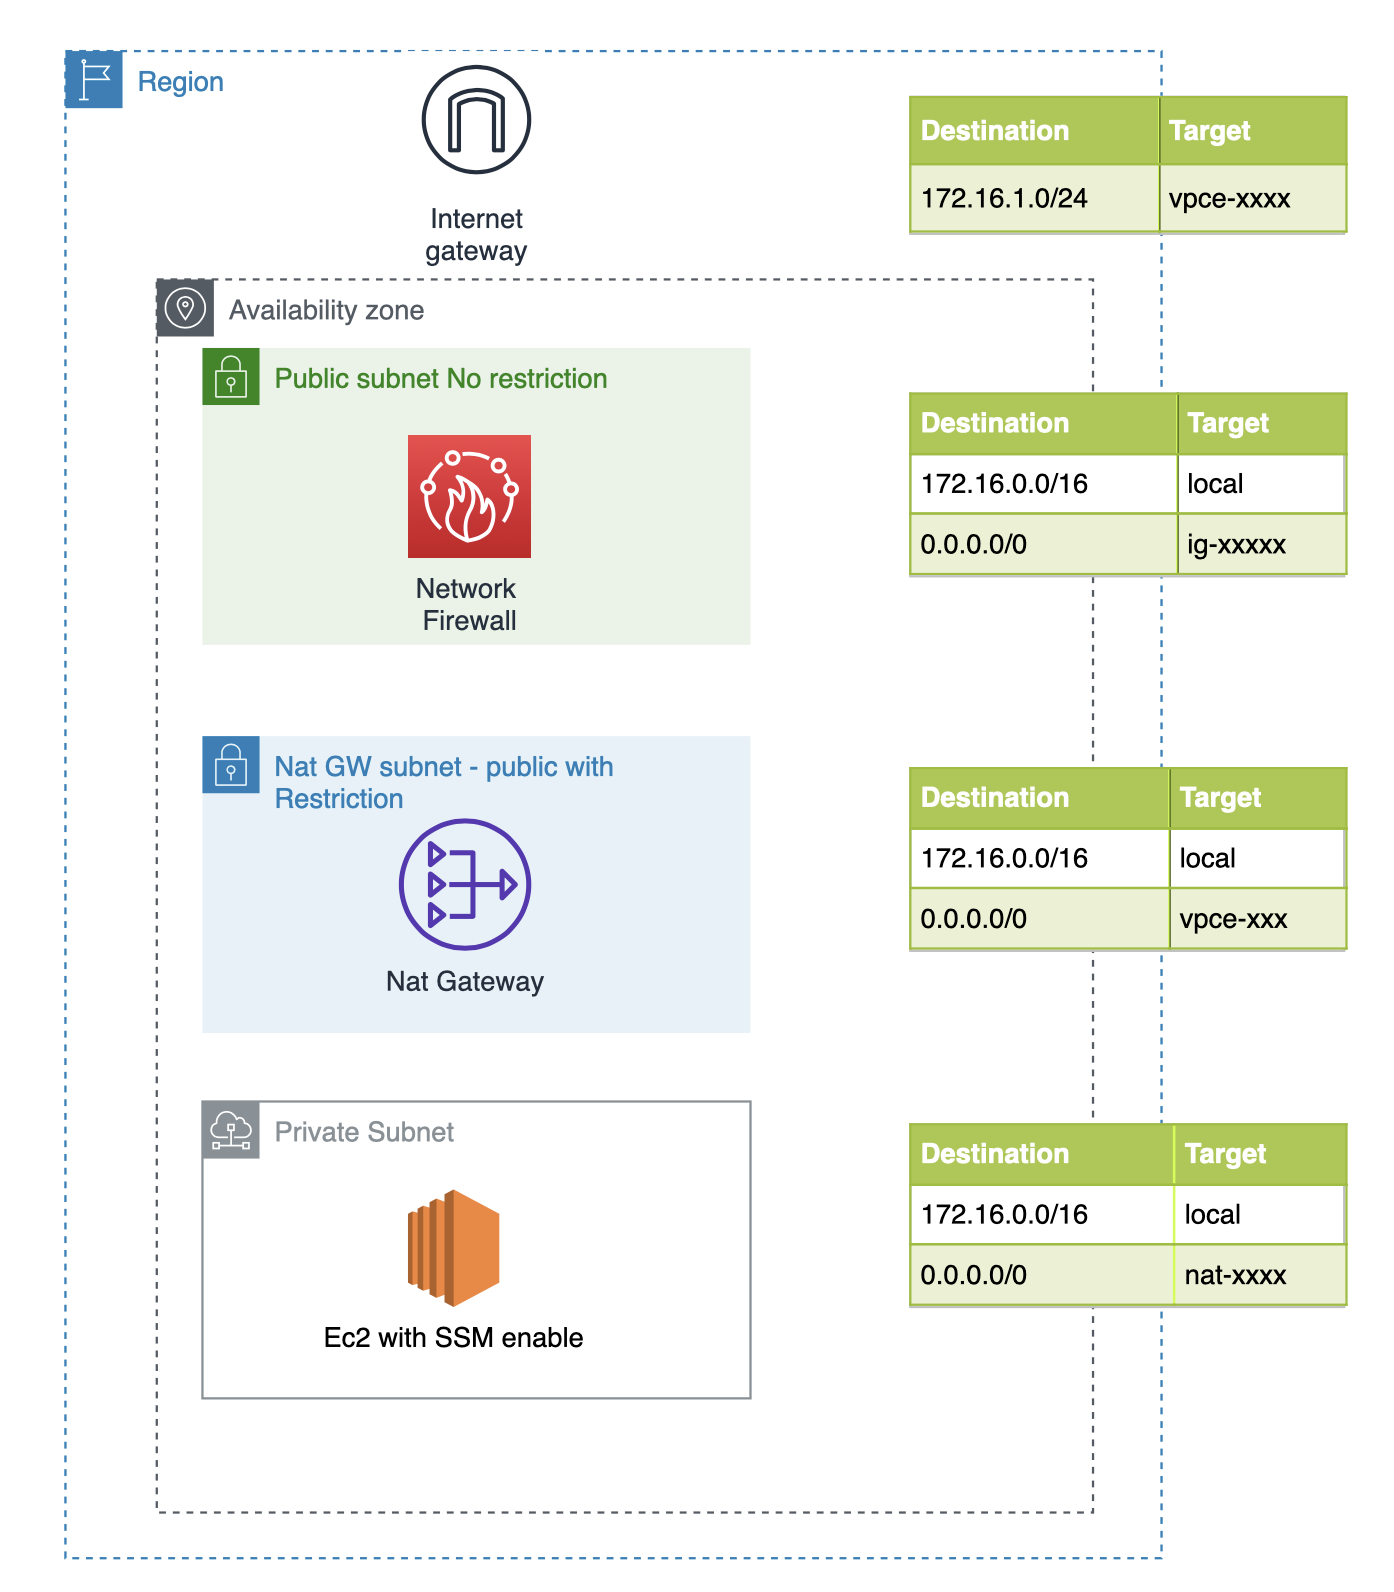
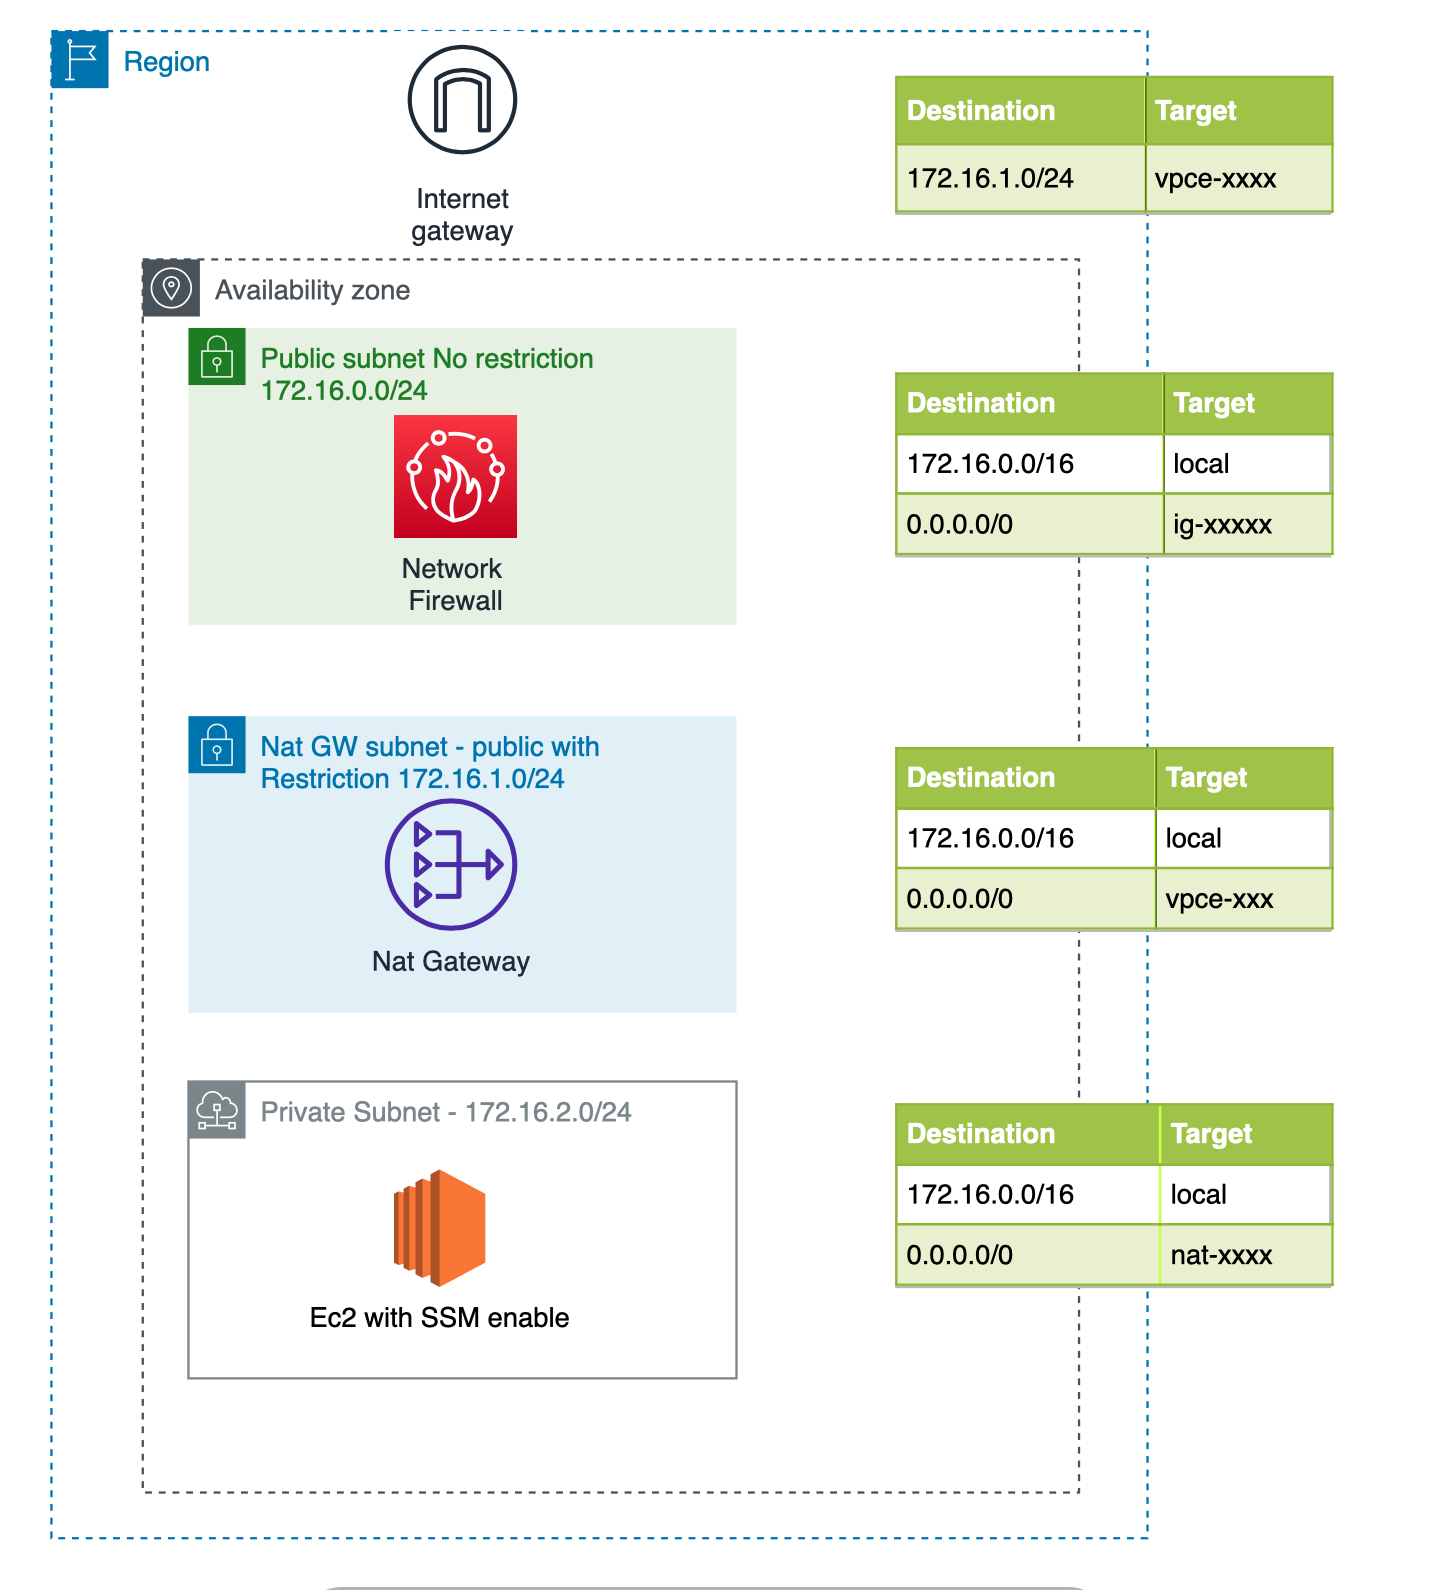
improving documentation

diff --git a/README.md b/README.md
@@ -1,8 +1,20 @@
 # terraform-aws-network-firewall-poc
 A POC for the AWS Network Firewall Service, full VPC with a Single AZ
 
-Full documentation and explanation soon on https://medium.com/@giuseppeborgese/
+Full documentation and explanation soon on https://giuseppeborgese.medium.com/how-to-build-an-aws-network-firewall-environment-8a212cfb7ef3
 
 ![diagram](https://raw.githubusercontent.com/giuseppeborgese/terraform-aws-network-firewall-poc/master/diagram.png)
 
-Youtube video with demo soon available
+Youtube video with demo https://youtu.be/Xb-matrBNOs
+
+```
+module "network_firewall_pocv2" {
+  source  = "giuseppeborgese/network-firewall-poc/aws"
+
+  project_name = "terr_net_fw_test"
+  vpc_cidr_block = "172.16.0.0/16"
+  cidr_pub_no_restriction = "172.16.0.0/24"
+  cidr_pub_nat_gw = "172.16.1.0/24"
+  cidr_private = "172.16.2.0/24"
+}
+```
